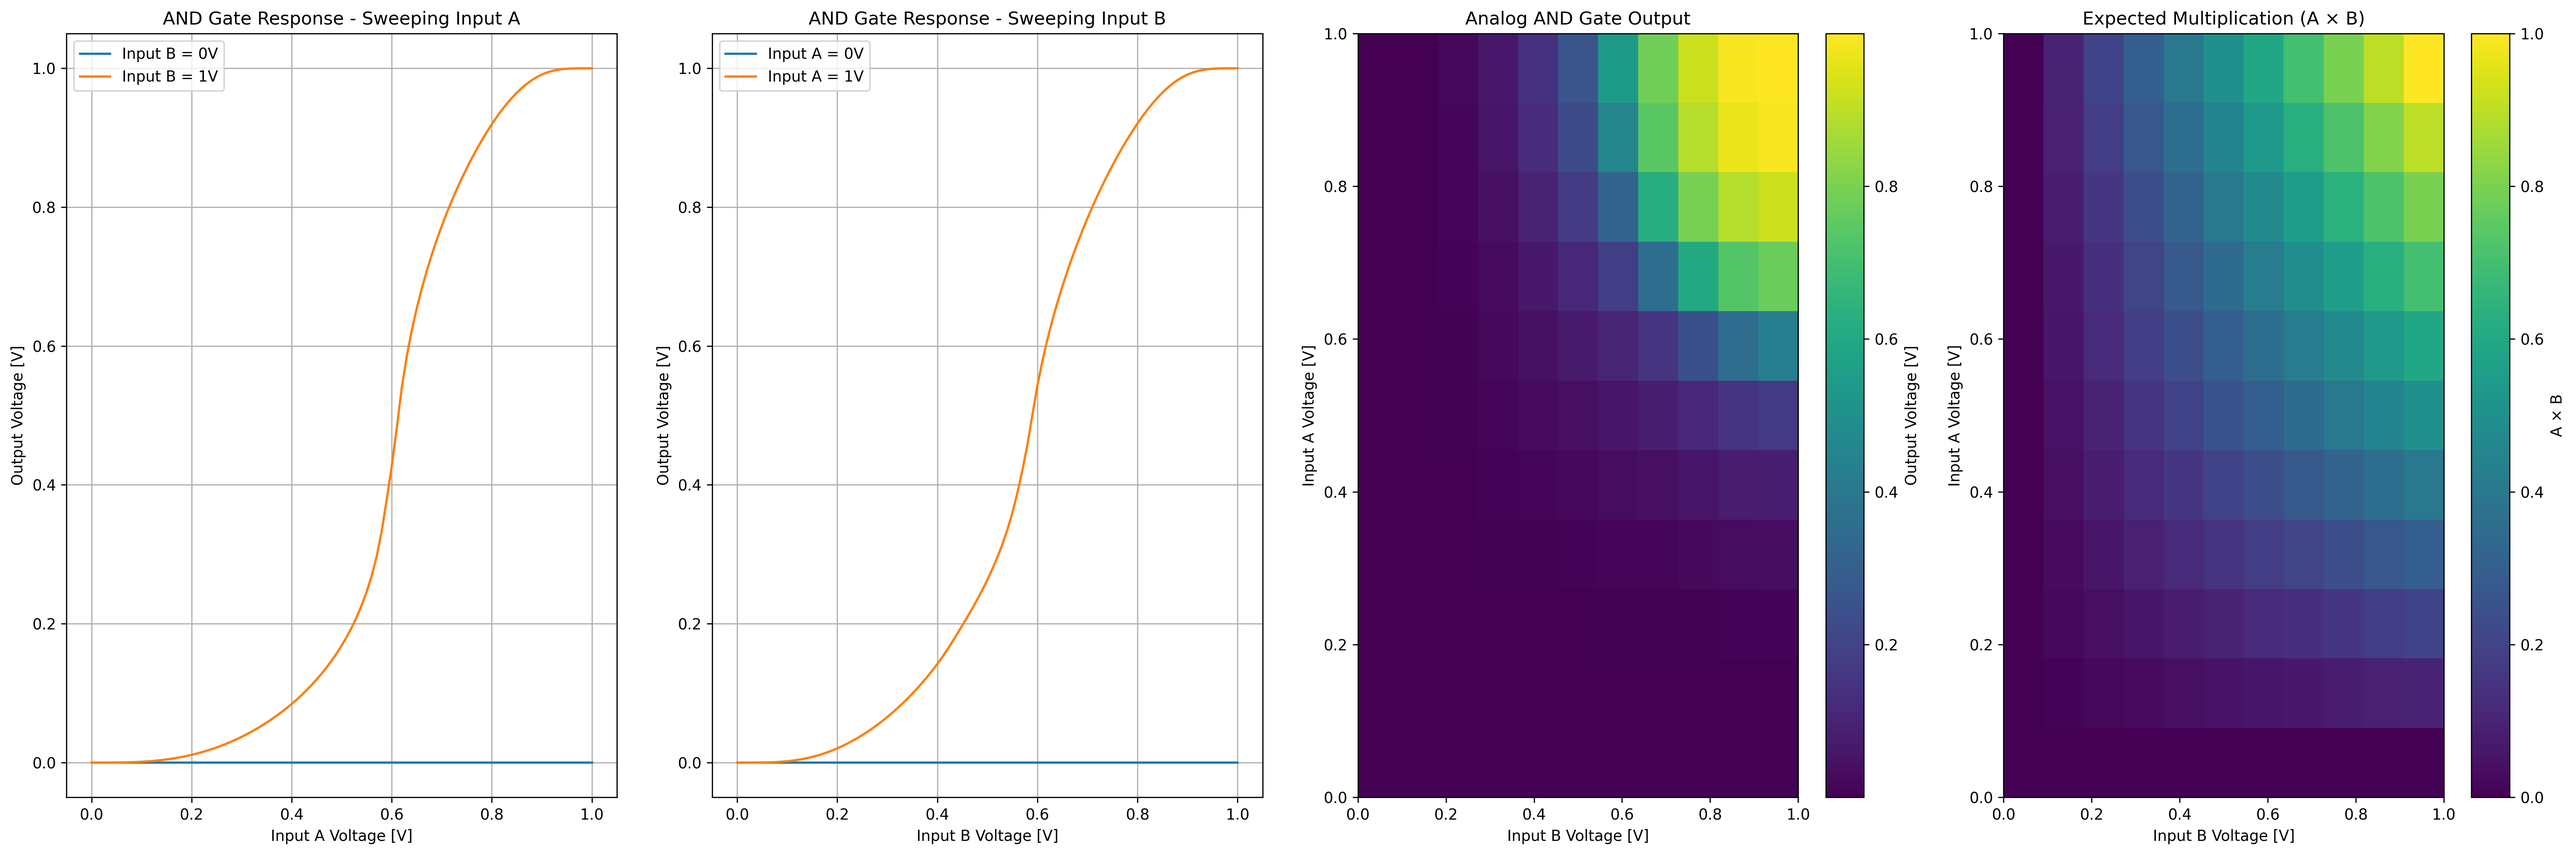
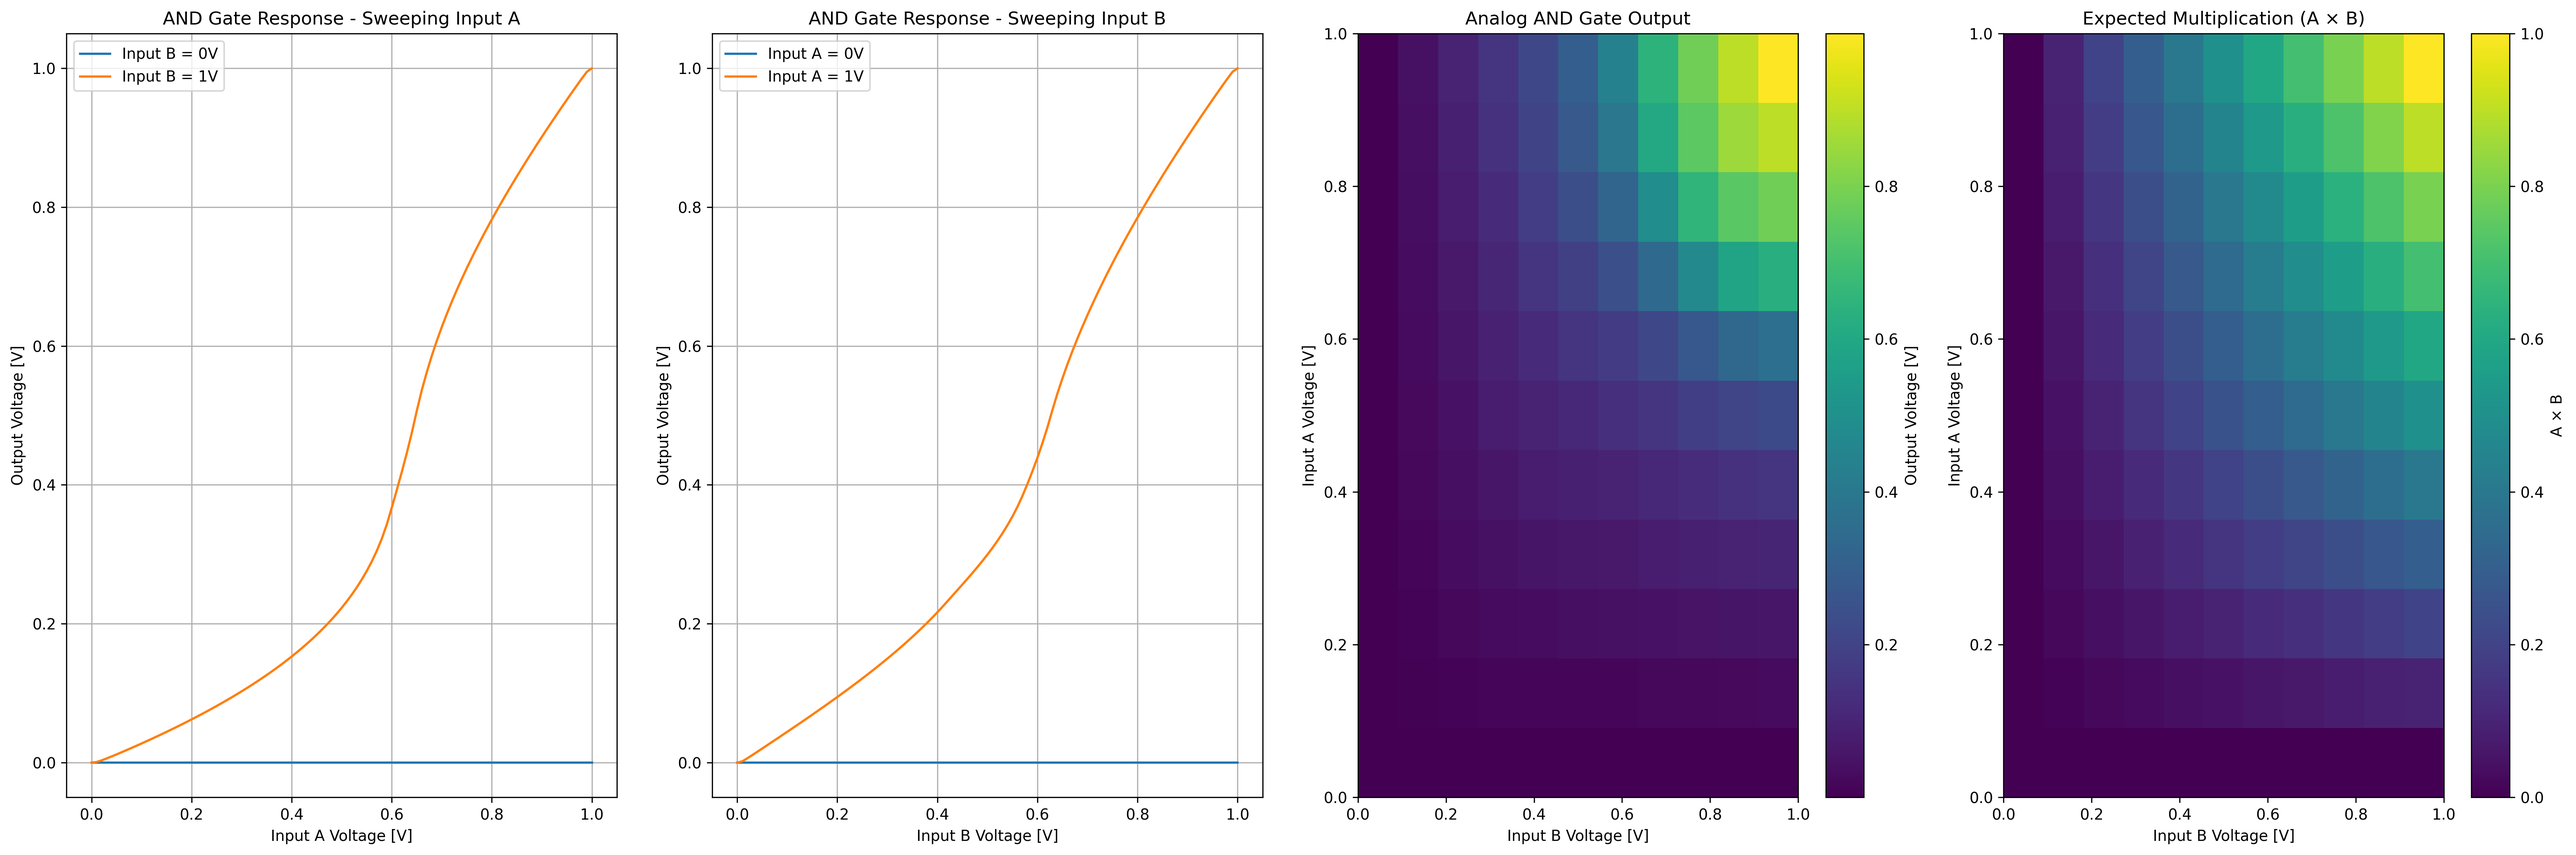
Faster system

Changed region(s): [[0.5312, 0.0312, 0.7188, 0.531], [0.2812, 0.8746, 0.3125, 0.9059], [0.0312, 0.8746, 0.0625, 0.9059]]

diff --git a/src/main.py b/src/main.py
@@ -90,9 +90,9 @@ def create_3sat_circuit(clauses, variable_names):
     var_nodes = [f'var_{name}' for name in variable_names]
     
     # Set a common capacitance value for all components
-    C = 1e-6  # 1000nF
-    R_aux = 150e3  # 150kΩ
-    C_aux = 1e-6  # 1000nF
+    C = 10e-9  # 10nF
+    R_aux = 15e3  # 15kΩ
+    C_aux = 10e-9  # 10nF
      
     # Create Variable subcircuits for each variable
     variables = []
@@ -215,7 +215,7 @@ def plot_3sat_results(analysis, variable_names, clauses, file_name, show_plot=Tr
         # Check if the node exists in the analysis results
         if node_name in analysis.nodes:
             # Plot the variable voltage
-            ax.plot(analysis.time, analysis[node_name], label=f'Variable {name}', linewidth=2)
+            ax.plot(analysis.time * 1e3, analysis[node_name], label=f'Variable {name}', linewidth=2)
             
             # Add horizontal lines at 0.25V and 0.75V to indicate decision thresholds
             ax.axhline(y=0.25, color='r', linestyle='--', alpha=0.5, label='False threshold (0.25V)')
@@ -267,8 +267,8 @@ def plot_3sat_results(analysis, variable_names, clauses, file_name, show_plot=Tr
         node_name = f'xclause_{i}.vam'
         
         # Plot the clause vam voltage
-        ax.plot(analysis.time, analysis[node_name], label=f'Clause {i+1} vam', linewidth=2, color='purple')
-        ax.plot(analysis.time, analysis[f'n1_{i}'], label=f'Clause {i+1} n1', linewidth=2, color='green')
+        ax.plot(analysis.time * 1e3, analysis[node_name], label=f'Clause {i+1} vam', linewidth=2, color='purple')
+        ax.plot(analysis.time * 1e3, analysis[f'n1_{i}'], label=f'Clause {i+1} n1', linewidth=2, color='green')
         
         # Add a title and y-label for this subplot
         ax.set_title(f'Clause {i+1} vam')
@@ -287,7 +287,7 @@ def plot_3sat_results(analysis, variable_names, clauses, file_name, show_plot=Tr
                 bbox=dict(facecolor='purple', alpha=0.2))
     
     # Add a common x-label for all subplots with proper formatting
-    plt.xlabel('Time (seconds)')
+    plt.xlabel('Time (milliseconds)')
 
     # Adjust layout to prevent overlap
     plt.tight_layout()
@@ -311,7 +311,7 @@ def plot_3sat_evolution(analysis, variable_names, clauses, file_name, show_plot=
         if satisfies_all and satisfied_at_idx == -1:
             satisfied_at_idx = i
 
-    times = np.array(analysis.time)
+    times = np.array(analysis.time) * 1e3
     plt.plot(times, count_satisfied_list)
     # Also add a vertical line at time when satisfies_all is true
     plt.axvline(x=times[satisfied_at_idx], color='red', linestyle='--', label='All clauses satisfied')
@@ -400,8 +400,8 @@ def main():
     # Set up argument parser
     parser = argparse.ArgumentParser(description='Solve a 3-SAT problem using an analog circuit simulator.')
     parser.add_argument('--cnf', type=str, help='Path to the CNF file')
-    parser.add_argument('--sim-time', type=float, default=20, help='Simulation time in seconds')
-    parser.add_argument('--step-time', type=float, default=1e-3, help='Simulation step time in seconds')
+    parser.add_argument('--sim-time', type=float, default=200, help='Simulation time in milliseconds')
+    parser.add_argument('--step-time', type=float, default=10e-3, help='Simulation step time in milliseconds')
     args = parser.parse_args()
     
     # If no CNF file is provided, use the default example
@@ -426,8 +426,8 @@ def main():
     # Run the simulation
     print("\nRunning simulation...")
     analysis, _ = run_3sat_simulation(circuit, variable_names, clauses,
-                                  simulation_time=args.sim_time, 
-                                  step_time=args.step_time)
+                                  simulation_time=args.sim_time * 1e-3, 
+                                  step_time=args.step_time * 1e-3)
     
     # Plot the results
     plot_3sat_results(analysis, variable_names, clauses, args.cnf.split("/")[-1].split(".")[0])
